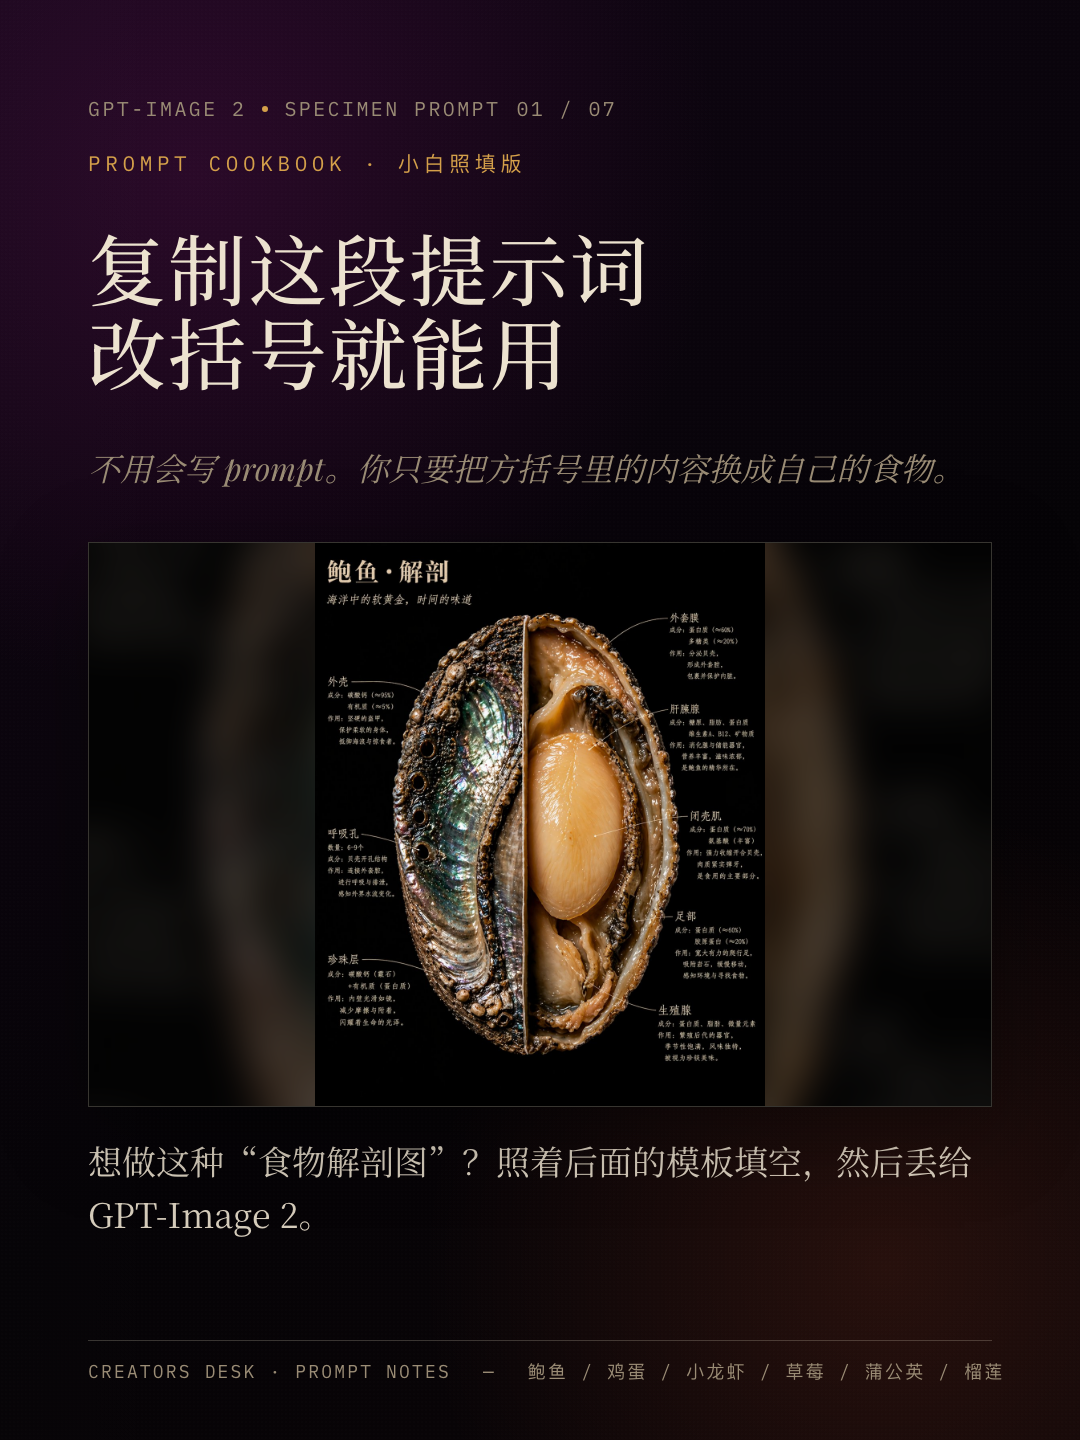
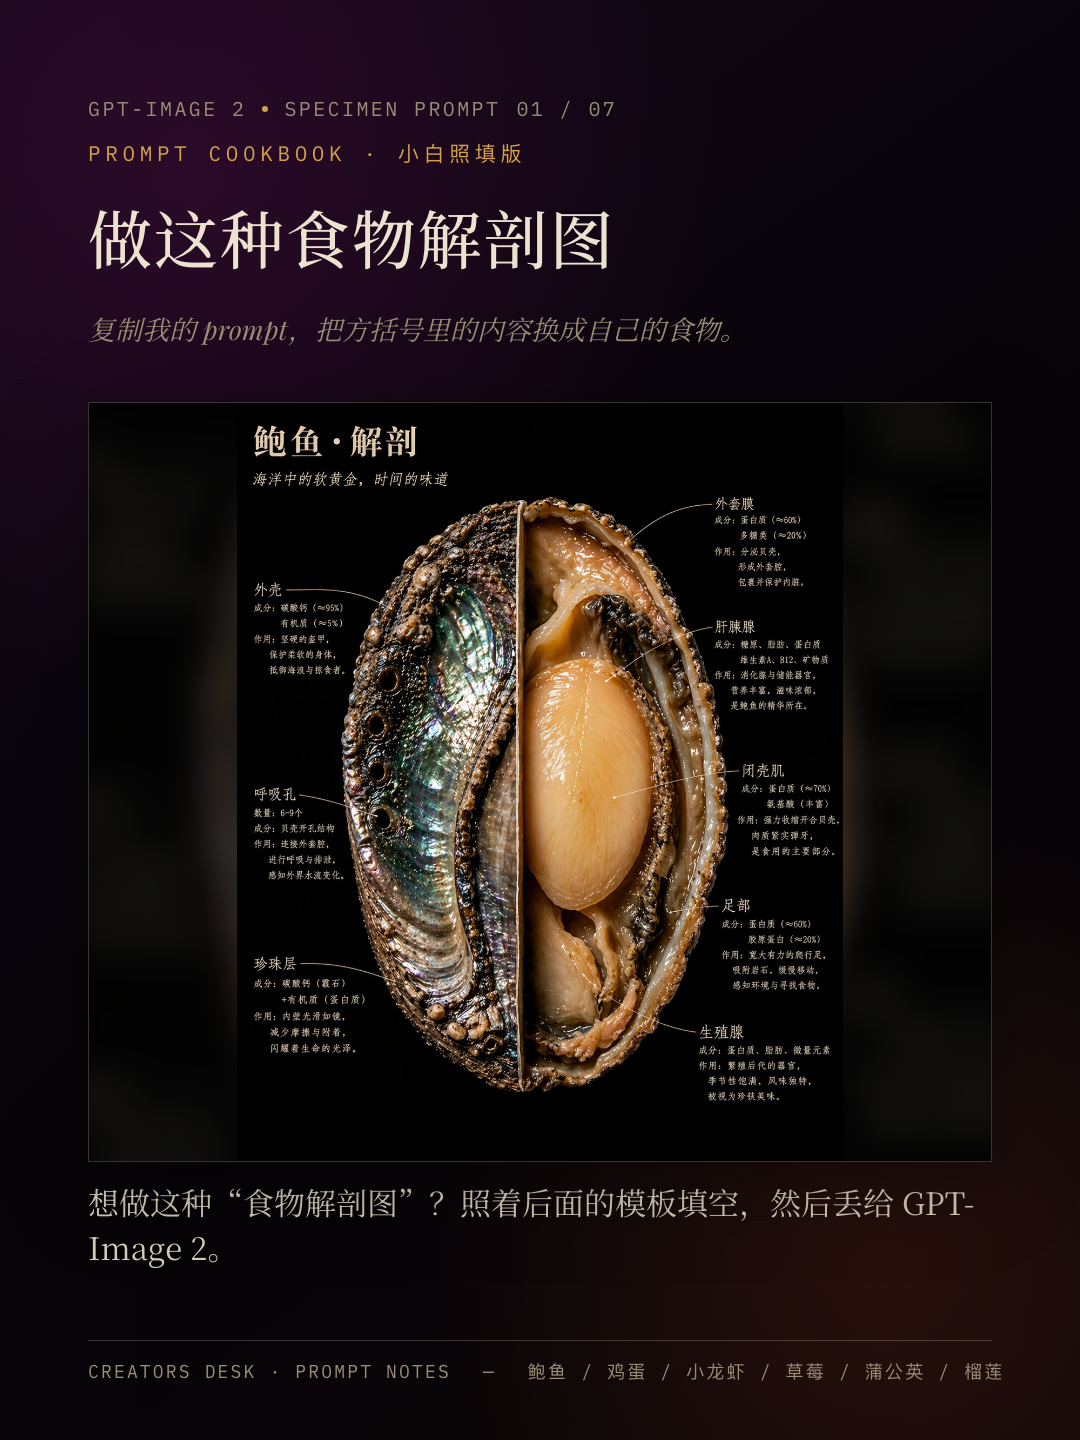
Enlarge specimen card cover visual

Changed region(s): [[0.0611, 0.0938, 0.9167, 0.875]]

diff --git a/social-card-specimen-prompt/index.html b/social-card-specimen-prompt/index.html
@@ -854,6 +854,11 @@
       line-height: 1.42;
     }
     .specimen .issue-strip { color: var(--muted); }
+    .specimen.cover-page .content { gap: 18px; }
+    .specimen.cover-page .h-display { font-size: 64px; line-height: 1.02; max-width: 860px; }
+    .specimen.cover-page .h-sub { font-size: 27px; line-height: 1.35; }
+    .specimen.cover-page .frame-img { height: 760px; margin-top: 12px; }
+    .specimen.cover-page .lead { font-size: 31px; line-height: 1.45; }
   </style>
 </head>
 <body>
@@ -863,7 +868,7 @@
   -->
   <main class="sheet">
 
-    <section class="poster xhs specimen" id="xhs-01">
+    <section class="poster xhs specimen cover-page" id="xhs-01">
       <canvas class="mag-bg" data-bg="ink-flow"></canvas>
       <div class="grain"></div>
       <div class="content">
@@ -871,8 +876,8 @@
           <span>GPT-IMAGE 2</span><span class="dot"></span><span>SPECIMEN PROMPT</span><span>01 / 07</span>
         </div>
         <p class="kicker">Prompt Cookbook · 小白照填版</p>
-        <h1 class="h-display">复制这段提示词<br>改括号就能用</h1>
-        <p class="h-sub">不用会写 prompt。你只要把方括号里的内容换成自己的食物。</p>
+        <h1 class="h-display">做这种食物解剖图</h1>
+        <p class="h-sub">复制我的 prompt，把方括号里的内容换成自己的食物。</p>
         <figure class="frame-img r-16x10">
           <img src="assets/abalone.png" alt="鲍鱼解剖风格案例" style="object-position:center 42%">
         </figure>
